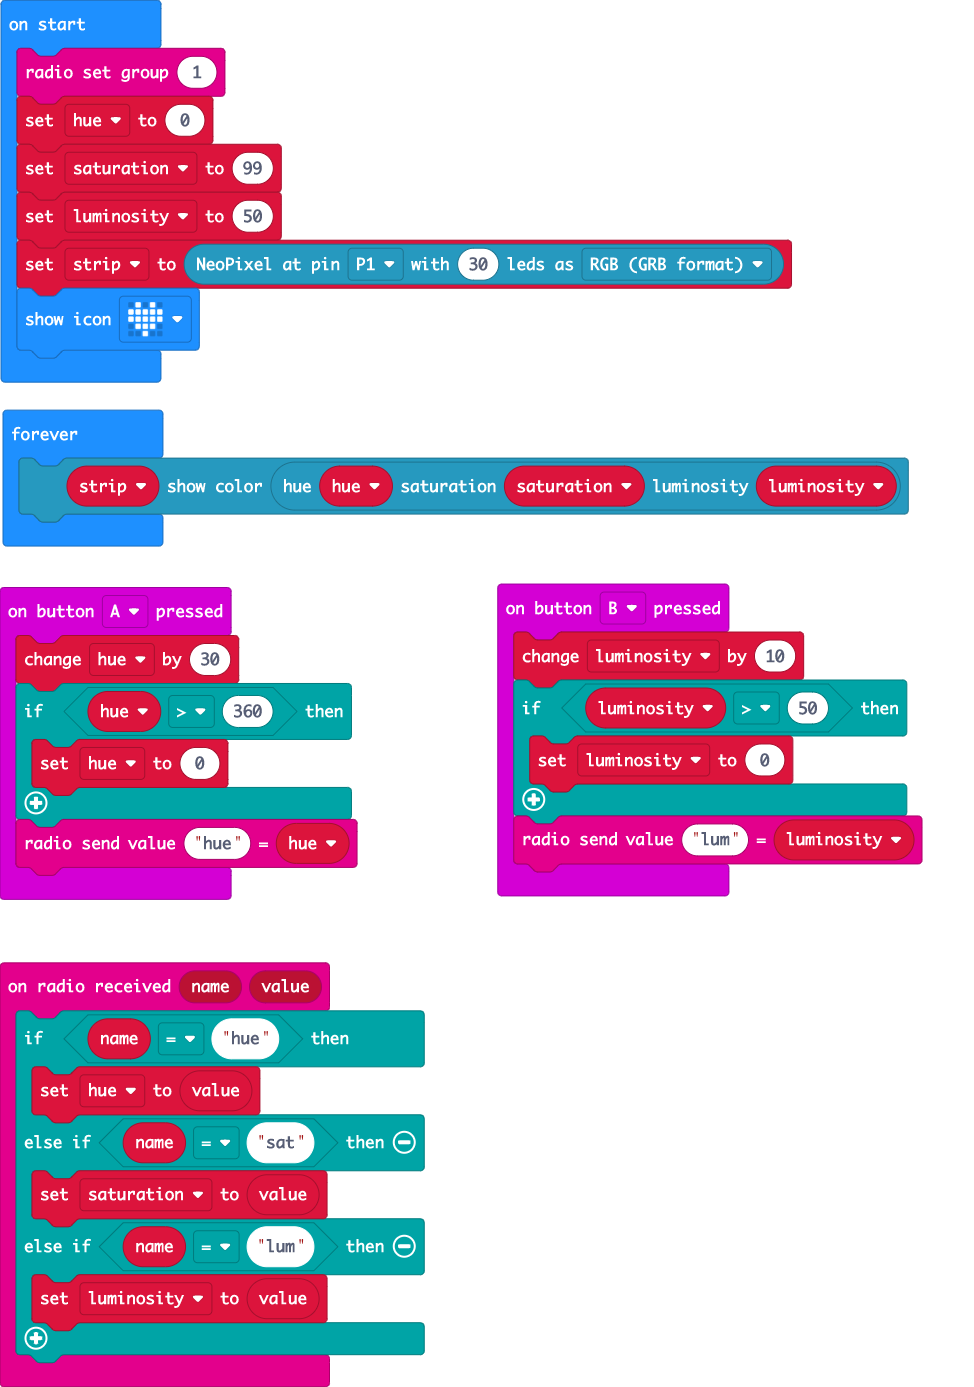
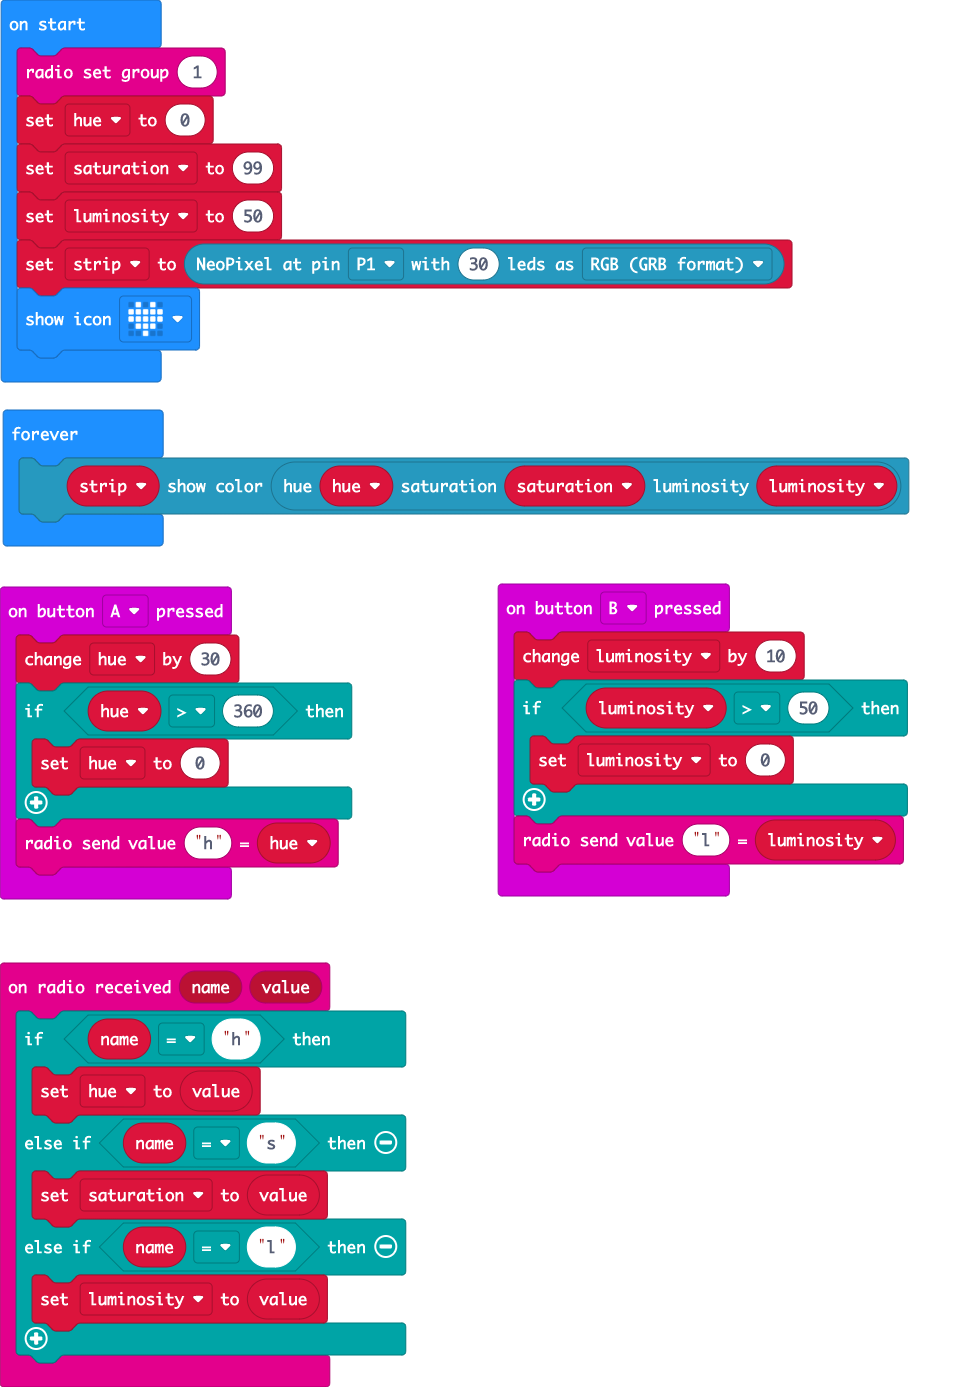
Update main.blocks, main.ts

diff --git a/main.ts b/main.ts
@@ -3,21 +3,21 @@ input.onButtonPressed(Button.A, function () {
     if (hue > 360) {
         hue = 0
     }
-    radio.sendValue("hue", hue)
+    radio.sendValue("h", hue)
 })
 input.onButtonPressed(Button.B, function () {
     luminosity += 10
     if (luminosity > 50) {
         luminosity = 0
     }
-    radio.sendValue("lum", luminosity)
+    radio.sendValue("l", luminosity)
 })
 radio.onReceivedValue(function (name, value) {
-    if (name == "hue") {
+    if (name == "h") {
         hue = value
-    } else if (name == "sat") {
+    } else if (name == "s") {
         saturation = value
-    } else if (name == "lum") {
+    } else if (name == "l") {
         luminosity = value
     }
 })
